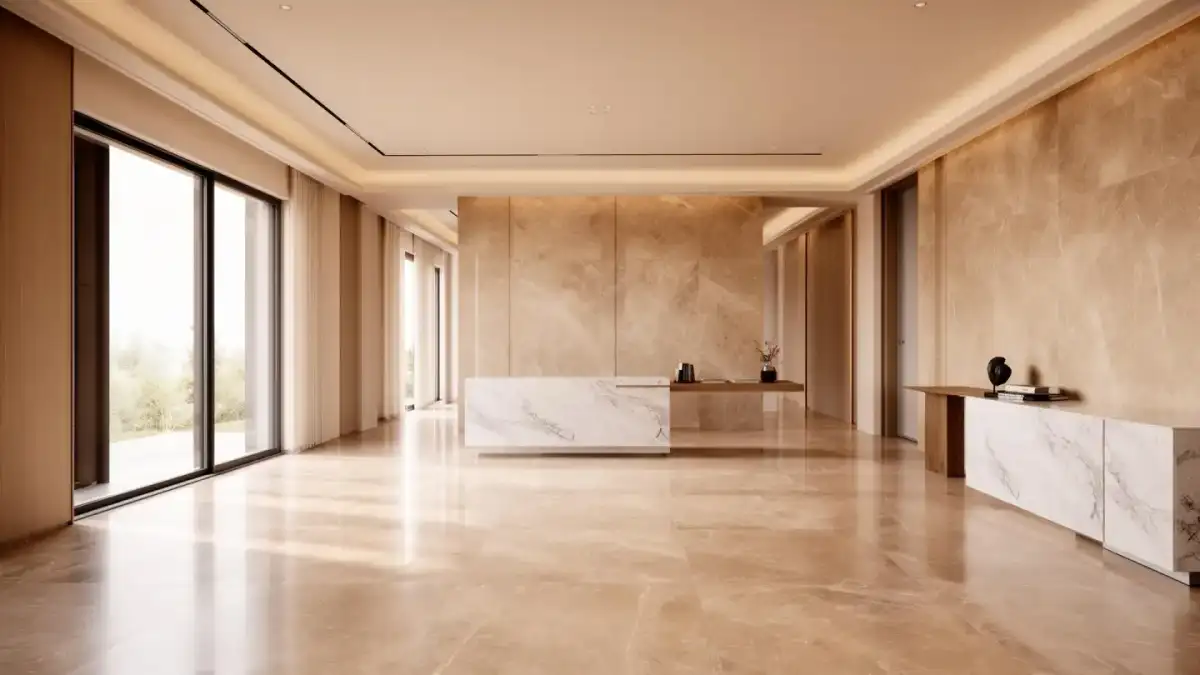
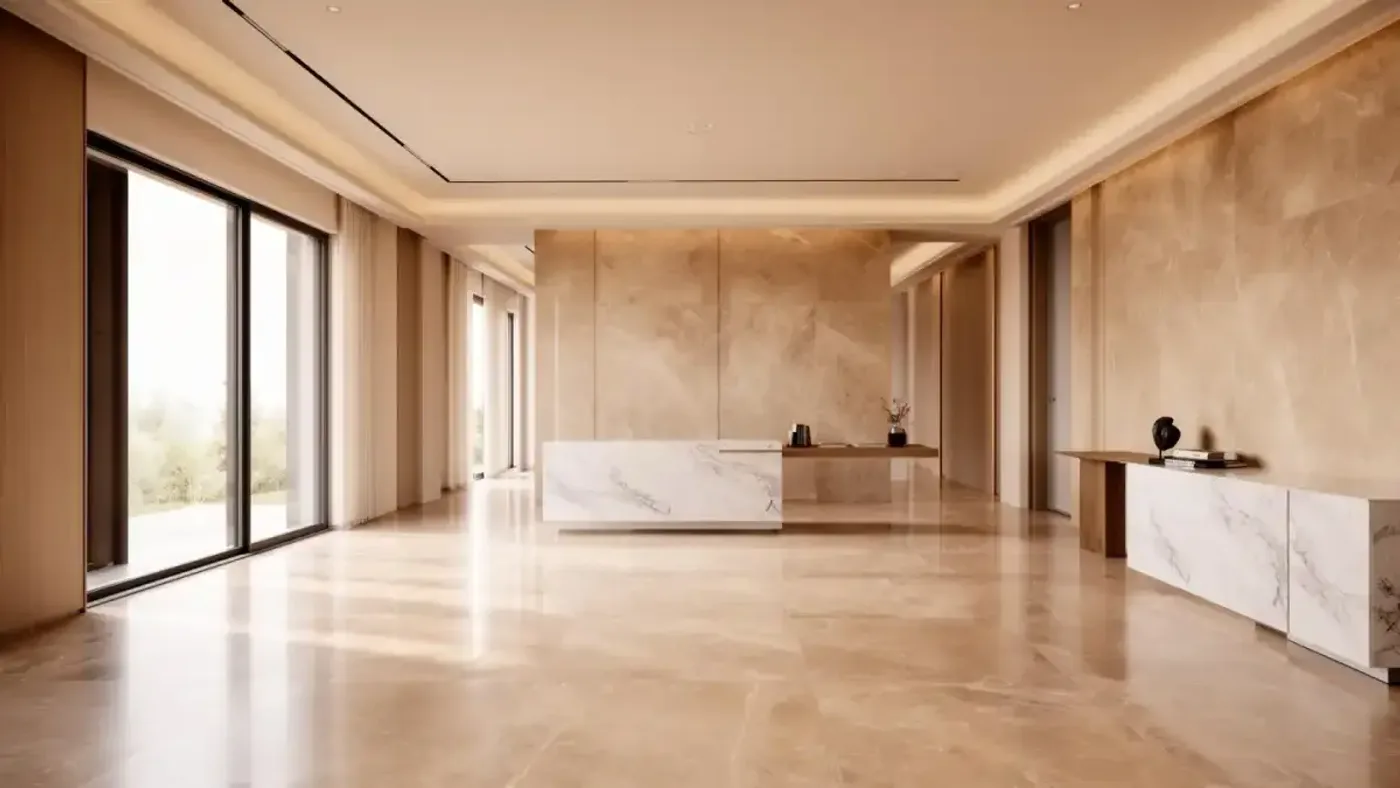
Sharper hero images + fix mobile score regression
- Re-encode hero images at quality 80 (was 60) for sharper visuals
- Mobile hero: 640px/12KB (was 480px/7KB), Desktop: 1400px/35KB (was 1200px/22KB)
- Use shell.remove() instead of opacity hack (removes extra composite layer)
- Remove content-visibility CSS (conflicted with IntersectionObserver)
- Update width/height attributes to match new image dimensions

Changed region(s): [[0.1542, 0.28, 0.185, 0.6533], [0.1542, 0.6844, 0.185, 0.7156], [0.0617, 0.5289, 0.0925, 0.56]]

diff --git a/src/components/HeroSection.tsx b/src/components/HeroSection.tsx
@@ -3,7 +3,7 @@ import { useEffect } from "react";
 const HeroSection = () => {
   useEffect(() => {
     const shell = document.getElementById("hero-shell");
-    if (shell) shell.classList.add("is-hidden");
+    if (shell) shell.remove();
   }, []);
 
   return (
@@ -11,7 +11,7 @@ const HeroSection = () => {
       <picture>
         <source srcSet="/hero-mobile.webp" type="image/webp" media="(max-width: 767px)" />
         <source srcSet="/hero-desktop.webp" type="image/webp" media="(min-width: 768px)" />
-        <img src="/hero-desktop.webp" alt="Showroom gạch ốp lát Toàn Phát Ceramic Phú Thọ" width={1920} height={1080} fetchPriority="high" decoding="sync" loading="eager" className="absolute inset-0 w-full h-full object-cover" />
+        <img src="/hero-desktop.webp" alt="Showroom gạch ốp lát Toàn Phát Ceramic Phú Thọ" width={1400} height={788} fetchPriority="high" decoding="sync" loading="eager" className="absolute inset-0 w-full h-full object-cover" />
       </picture>
 
       <div className="absolute inset-0" style={{ background: "linear-gradient(to top, rgba(0,0,0,0.6) 0%, rgba(0,0,0,0.2) 60%, rgba(0,0,0,0.1) 100%)" }} />

diff --git a/index.html b/index.html
@@ -92,7 +92,7 @@
       <picture>
         <source srcset="/hero-mobile.webp" type="image/webp" media="(max-width: 767px)" />
         <source srcset="/hero-desktop.webp" type="image/webp" media="(min-width: 768px)" />
-        <img src="/hero-desktop.webp" alt="Showroom gạch ốp lát Toàn Phát Ceramic Phú Thọ" width="1920" height="1080" fetchpriority="high" decoding="sync" />
+        <img src="/hero-desktop.webp" alt="Showroom gạch ốp lát Toàn Phát Ceramic Phú Thọ" width="1400" height="788" fetchpriority="high" decoding="sync" />
       </picture>
       <div class="overlay"></div>
       <div class="content">

diff --git a/src/index.css b/src/index.css
@@ -58,14 +58,6 @@
 }
 
 html { scroll-behavior: smooth; }
-/* Defer rendering of below-fold sections */
-section[id="products"],
-section[id="services"],
-section[id="about"],
-footer[id="contact"] {
-  content-visibility: auto;
-  contain-intrinsic-size: auto 500px;
-}
 ::-webkit-scrollbar { width: 6px; }
 ::-webkit-scrollbar-track { background: hsl(var(--background)); }
 ::-webkit-scrollbar-thumb { background: hsl(var(--muted-foreground) / 0.3); }
